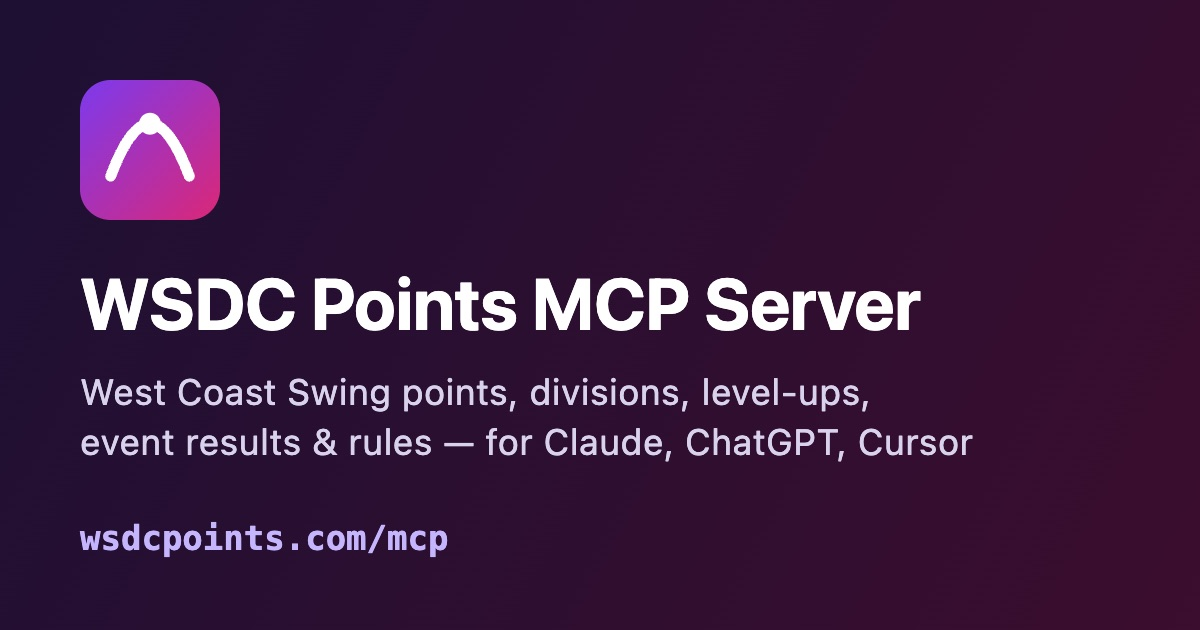
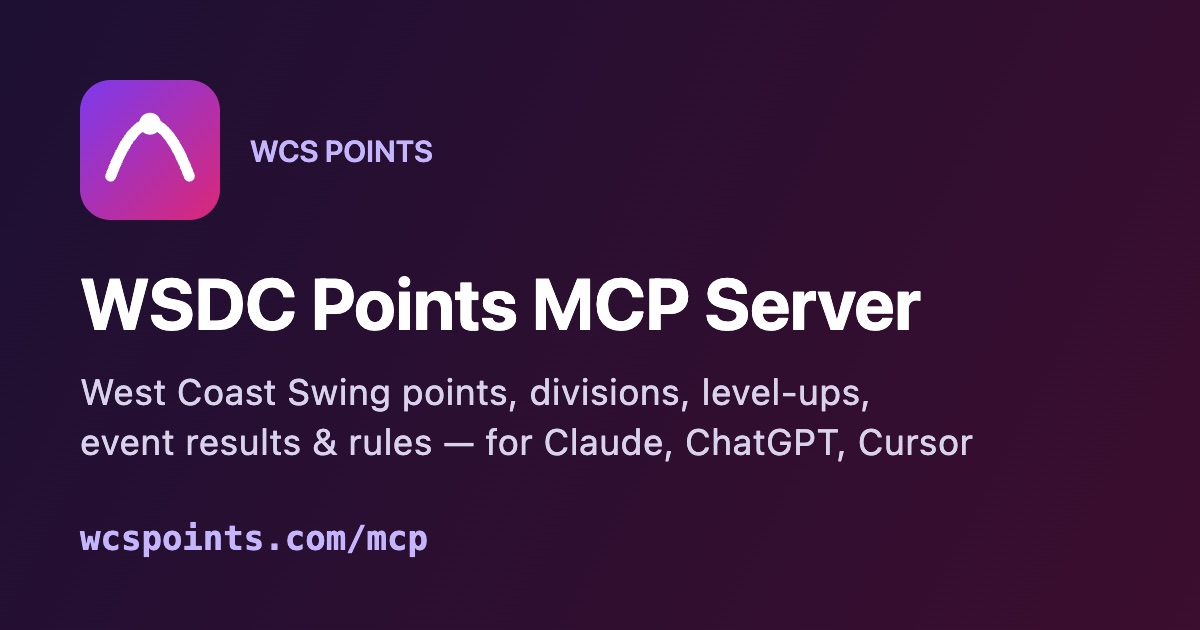
public MCP: move to wcspoints.com, brand "WCS Points", IndexNow key
- Domain wsdcpoints.com -> wcspoints.com everywhere (app default URL,
  server.json, registry name com.wcspoints/wsdc-points, nginx site,
  provision script, docs); OG image re-rendered with the new URL.
- Brand/site name "WCS Points"; page titles keep "WSDC Points" keywords.
- WSDC_MCP_INDEXNOW_KEY serves /<key>.txt for IndexNow (Bing, Yandex...).
- provision.sh: detect DNS against `hostname -I` (no external call) and
  issue/expand the cert for www only once www points here.

Changed region(s): [[0.0617, 0.8143, 0.37, 0.9048], [0.2158, 0.2111, 0.37, 0.2714]]

diff --git a/wsdc_mcp/web.py b/wsdc_mcp/web.py
@@ -168,6 +168,8 @@ class WebPages:
             ("/.well-known/ai-catalog.json", self.ai_catalog),
             ("/.well-known/mcp-registry-auth", self.registry_auth),
         ]
+        if self.config.indexnow_key:
+            routes.append((f"/{self.config.indexnow_key}.txt", self.indexnow_key))
         for path, handler in routes:
             mcp.custom_route(path, methods=["GET", "HEAD"], include_in_schema=False)(handler)
 
@@ -215,6 +217,9 @@ class WebPages:
         if not self.config.registry_auth:
             return PlainTextResponse("Not found", status_code=404)
         return PlainTextResponse(self.config.registry_auth)
+
+    async def indexnow_key(self, request: Request) -> Response:
+        return PlainTextResponse(self.config.indexnow_key or "")
 
     async def robots(self, request: Request) -> Response:
         body = f"User-agent: *\nAllow: /\n\nSitemap: {self.config.public_url}/sitemap.xml\n"
@@ -284,7 +289,7 @@ competition history). The authoritative copy lives at <a href="https://worldsdc.
 corrections should be requested from the WSDC, and are reflected here after the next sync.
 To ask about this mirror, contact {contact}<a href="{html.escape(c.repo_url)}/issues">open an issue on GitHub</a>.</p>
 """
-        return HTMLResponse(self._page("Privacy policy · WSDC Points MCP", "Privacy policy of the WSDC Points MCP server.", "/privacy", body))
+        return HTMLResponse(self._page("Privacy policy · WCS Points", "Privacy policy of the WSDC Points MCP server.", "/privacy", body))
 
     async def landing(self, request: Request) -> Response:
         c = self.config
@@ -303,7 +308,8 @@ To ask about this mirror, contact {contact}<a href="{html.escape(c.repo_url)}/is
         rules_note = f" (rulebook {html.escape(self.rules.version)})" if self.rules else ""
         body = f"""
 <header class="hero">
-  <img src="/icon.svg" width="56" height="56" alt="">
+  <img src="/icon.svg" width="56" height="56" alt="WCS Points logo">
+  <p class="brand">WCS Points</p>
   <h1>WSDC Points MCP Server</h1>
   <p class="lead">Ask Claude, ChatGPT, Cursor or any AI assistant about West Coast Swing dancers:
   WSDC points, divisions per role, level-ups, event results and the official rules{rules_note}.</p>
@@ -355,7 +361,7 @@ To ask about this mirror, contact {contact}<a href="{html.escape(c.repo_url)}/is
 """
         return HTMLResponse(
             self._page(
-                "WSDC Points MCP Server — West Coast Swing points & divisions for AI assistants",
+                "WSDC Points MCP Server — West Coast Swing points for AI assistants | WCS Points",
                 "Free MCP server for the WSDC Points Registry: look up any West Coast Swing dancer's "
                 "points, division per role, level-ups, event results and WSDC rules from Claude, ChatGPT or Cursor.",
                 "/",
@@ -372,7 +378,7 @@ To ask about this mirror, contact {contact}<a href="{html.escape(c.repo_url)}/is
                 "@context": "https://schema.org",
                 "@type": "SoftwareApplication",
                 "name": "WSDC Points MCP Server",
-                "alternateName": ["WSDC Points MCP", SERVER_NAME],
+                "alternateName": ["WCS Points", "WSDC Points MCP", SERVER_NAME],
                 "applicationCategory": "DeveloperApplication",
                 "applicationSubCategory": "Model Context Protocol server",
                 "operatingSystem": "Any",
@@ -420,7 +426,7 @@ To ask about this mirror, contact {contact}<a href="{html.escape(c.repo_url)}/is
 <meta property="og:title" content="{html.escape(title)}">
 <meta property="og:description" content="{html.escape(description)}">
 <meta property="og:url" content="{html.escape(canonical)}">
-<meta property="og:site_name" content="WSDC Points MCP">
+<meta property="og:site_name" content="WCS Points">
 <meta property="og:image" content="{html.escape(c.public_url)}/og.jpg">
 <meta property="og:image:width" content="1200">
 <meta property="og:image:height" content="630">
@@ -439,6 +445,7 @@ h1 {{ font-size: clamp(28px, 5vw, 40px); line-height:1.15; margin: 12px 0 8px; }
 h2 {{ font-size: 22px; margin: 44px 0 12px; }}
 h3 {{ font-size: 16px; margin: 0 0 8px; }}
 .hero {{ text-align:center; padding-top: 16px; }}
+.brand {{ margin: 8px 0 0; font-weight: 600; letter-spacing: .08em; text-transform: uppercase; font-size: 13px; color: var(--muted); }}
 .lead {{ font-size: 18px; color: var(--muted); max-width: 680px; margin: 0 auto 20px; }}
 .endpoint {{ display:inline-flex; gap:8px; align-items:center; max-width:100%; background:var(--card); border:1px solid var(--line); border-radius:12px; padding:8px 8px 8px 14px; }}
 .endpoint code {{ overflow-wrap:anywhere; font-size: 15px; }}

diff --git a/tests/test_unit.py b/tests/test_unit.py
@@ -176,7 +176,7 @@ def test_tools_are_titled_read_only_and_structured(config):
 
 
 def _http(app):
-    return httpx.AsyncClient(transport=httpx.ASGITransport(app=app), base_url="https://wsdcpoints.test")
+    return httpx.AsyncClient(transport=httpx.ASGITransport(app=app), base_url="https://wcspoints.test")
 
 
 def test_web_routes_and_discovery(config):
@@ -194,16 +194,28 @@ def test_web_routes_and_discovery(config):
     assert all(resp.status_code == 200 for resp in r.values()), {p: x.status_code for p, x in r.items()}
     landing = r["/"].text
     assert "<title>WSDC Points MCP Server" in landing
-    assert 'rel="canonical" href="https://wsdcpoints.test/"' in landing
+    assert 'rel="canonical" href="https://wcspoints.test/"' in landing
     assert '"@type": "FAQPage"' in landing and "search_wsdc_rules" in landing
-    assert "https://wsdcpoints.test/mcp" in r["/llms.txt"].text
+    assert "https://wcspoints.test/mcp" in r["/llms.txt"].text
     card = r["/mcp/server-card"].json()
     assert r["/mcp/server-card"].headers["content-type"].startswith("application/mcp-server-card+json")
-    assert card["remotes"][0] == {**card["remotes"][0], "type": "streamable-http", "url": "https://wsdcpoints.test/mcp"}
+    assert card["remotes"][0] == {**card["remotes"][0], "type": "streamable-http", "url": "https://wcspoints.test/mcp"}
     assert card["$schema"].endswith("/schemas/v1/server-card.schema.json")
     catalog = r["/.well-known/ai-catalog.json"].json()
-    assert catalog["entries"][0]["url"] == "https://wsdcpoints.test/mcp/server-card"
+    assert catalog["entries"][0]["url"] == "https://wcspoints.test/mcp/server-card"
     assert r["/.well-known/mcp-registry-auth"].text == "v=MCPv1; k=ed25519; p=abc"
+
+
+def test_indexnow_key_file():
+    app = create_app(make_config(indexnow_key="0123456789abcdef0123456789abcdef"))
+
+    async def run():
+        async with _http(app) as http:
+            return await http.get("/0123456789abcdef0123456789abcdef.txt"), await http.get("/nope.txt")
+
+    hit, miss = asyncio.run(run())
+    assert hit.status_code == 200 and hit.text == "0123456789abcdef0123456789abcdef"
+    assert miss.status_code == 404
 
 
 def test_registry_auth_absent_is_404(config):
@@ -258,4 +270,4 @@ def test_server_json_matches_code():
     assert manifest["name"] == SERVER_NAME
     assert manifest["description"] == SERVER_DESCRIPTION
     assert manifest["version"] == __version__
-    assert manifest["remotes"] == [{"type": "streamable-http", "url": "https://wsdcpoints.com/mcp"}]
+    assert manifest["remotes"] == [{"type": "streamable-http", "url": "https://wcspoints.com/mcp"}]

diff --git a/wsdc_mcp/config.py b/wsdc_mcp/config.py
@@ -30,6 +30,8 @@ class Config:
     statement_timeout_ms: int
     # Body for /.well-known/mcp-registry-auth (MCP Registry HTTP domain proof), if any.
     registry_auth: str | None
+    # IndexNow key (https://www.indexnow.org); served at /<key>.txt when set.
+    indexnow_key: str | None
     # Optional contact address shown on the landing/privacy pages; GitHub issues are always linked.
     contact_email: str | None
     repo_url: str
@@ -48,7 +50,7 @@ def load_config() -> Config:
     rules_path = _env("WSDC_MCP_RULES_PATH")
     return Config(
         db_dsn=_env("WSDC_MCP_DB_DSN") or _env("MCP_DB_DSN"),
-        public_url=(_env("WSDC_MCP_PUBLIC_URL", "https://wsdcpoints.com") or "").rstrip("/"),
+        public_url=(_env("WSDC_MCP_PUBLIC_URL", "https://wcspoints.com") or "").rstrip("/"),
         host=_env("WSDC_MCP_HOST", "127.0.0.1") or "127.0.0.1",
         port=int(_env("WSDC_MCP_PORT", "8001") or "8001"),
         rules_path=Path(rules_path) if rules_path else None,
@@ -56,6 +58,7 @@ def load_config() -> Config:
         pool_max_size=int(_env("WSDC_MCP_POOL_MAX", "3") or "3"),
         statement_timeout_ms=int(_env("WSDC_MCP_STATEMENT_TIMEOUT_MS", "8000") or "8000"),
         registry_auth=_env("WSDC_MCP_REGISTRY_AUTH"),
+        indexnow_key=_env("WSDC_MCP_INDEXNOW_KEY"),
         contact_email=_env("WSDC_MCP_CONTACT_EMAIL"),
         repo_url=(_env("WSDC_MCP_REPO_URL", "https://github.com/akarakotov/wsdc-mcp") or "").rstrip("/"),
         log_level=(_env("WSDC_MCP_LOG_LEVEL", "INFO") or "INFO").upper(),

diff --git a/tests/conftest.py b/tests/conftest.py
@@ -17,7 +17,7 @@ TEST_DSN = os.environ.get("WSDC_MCP_TEST_DSN")
 def make_config(**overrides) -> Config:
     base = dict(
         db_dsn=None,
-        public_url="https://wsdcpoints.test",
+        public_url="https://wcspoints.test",
         host="127.0.0.1",
         port=8001,
         rules_path=None,
@@ -25,6 +25,7 @@ def make_config(**overrides) -> Config:
         pool_max_size=2,
         statement_timeout_ms=5000,
         registry_auth=None,
+        indexnow_key=None,
         contact_email=None,
         repo_url="https://github.com/akarakotov/wsdc-mcp",
         log_level="INFO",

diff --git a/wsdc_mcp/server.py b/wsdc_mcp/server.py
@@ -35,8 +35,8 @@ logger = logging.getLogger("wsdc_mcp.tools")
 P = ParamSpec("P")
 T = TypeVar("T")
 
-SERVER_NAME = "com.wsdcpoints/wsdc-points"
-SERVER_TITLE = "WSDC Points"
+SERVER_NAME = "com.wcspoints/wsdc-points"
+SERVER_TITLE = "WCS Points"
 SERVER_DESCRIPTION = (
     "West Coast Swing WSDC points registry: dancer points, divisions, level-ups, event results and rules."
 )

diff --git a/README.md b/README.md
@@ -1,15 +1,15 @@
 # WSDC Points MCP Server
 
-<!-- mcp-name: com.wsdcpoints/wsdc-points -->
+<!-- mcp-name: com.wcspoints/wsdc-points -->
 
 **Ask Claude, ChatGPT, Cursor or any AI assistant about West Coast Swing dancers' WSDC points,
 divisions, level-ups and competition results.** A free, public, read-only
 [Model Context Protocol](https://modelcontextprotocol.io) (MCP) server for the
 World Swing Dance Council (WSDC) Points Registry: ~27,000 dancers and ~8,000 events.
 
-- **Endpoint:** `https://wsdcpoints.com/mcp` (Streamable HTTP, no API key, no sign-up)
-- **Website:** [wsdcpoints.com](https://wsdcpoints.com) · [llms.txt](https://wsdcpoints.com/llms.txt) · [server card](https://wsdcpoints.com/mcp/server-card)
-- **Official MCP Registry name:** `com.wsdcpoints/wsdc-points`
+- **Endpoint:** `https://wcspoints.com/mcp` (Streamable HTTP, no API key, no sign-up)
+- **Website:** [wcspoints.com](https://wcspoints.com) · [llms.txt](https://wcspoints.com/llms.txt) · [server card](https://wcspoints.com/mcp/server-card)
+- **Official MCP Registry name:** `com.wcspoints/wsdc-points`
 
 > Unofficial project, not affiliated with the World Swing Dance Council. The official registry is at
 > [worldsdc.com/registry](https://worldsdc.com/registry/).
@@ -27,11 +27,11 @@ World Swing Dance Council (WSDC) Points Registry: ~27,000 dancers and ~8,000 eve
 
 | Client | How |
 |---|---|
-| **Claude** (claude.ai, Desktop) | Settings → Connectors → *Add custom connector* → URL `https://wsdcpoints.com/mcp` |
-| **Claude Code** | `claude mcp add --transport http wsdc-points https://wsdcpoints.com/mcp` |
+| **Claude** (claude.ai, Desktop) | Settings → Connectors → *Add custom connector* → URL `https://wcspoints.com/mcp` |
+| **Claude Code** | `claude mcp add --transport http wsdc-points https://wcspoints.com/mcp` |
 | **ChatGPT** | Enable developer mode for apps/connectors, create a connector with the URL above, no authentication |
-| **Cursor / Windsurf** | `{"mcpServers": {"wsdc-points": {"url": "https://wsdcpoints.com/mcp"}}}` |
-| **VS Code (Copilot)** | `.vscode/mcp.json`: `{"servers": {"wsdc-points": {"type": "http", "url": "https://wsdcpoints.com/mcp"}}}` |
+| **Cursor / Windsurf** | `{"mcpServers": {"wsdc-points": {"url": "https://wcspoints.com/mcp"}}}` |
+| **VS Code (Copilot)** | `.vscode/mcp.json`: `{"servers": {"wsdc-points": {"type": "http", "url": "https://wcspoints.com/mcp"}}}` |
 | **Anything else** | Any MCP client with Streamable HTTP transport |
 
 ## Tools
@@ -73,7 +73,7 @@ WSDC_MCP_DB_DSN="dbname=wsdc host=127.0.0.1" venv/bin/python -m wsdc_mcp      # 
 | Variable | Meaning |
 |---|---|
 | `WSDC_MCP_DB_DSN` | PostgreSQL DSN of the WSDC registry database (read-only role) |
-| `WSDC_MCP_PUBLIC_URL` | Public origin used in links and discovery documents (default `https://wsdcpoints.com`) |
+| `WSDC_MCP_PUBLIC_URL` | Public origin used in links and discovery documents (default `https://wcspoints.com`) |
 | `WSDC_MCP_HOST` / `WSDC_MCP_PORT` | Bind address (default `127.0.0.1:8001`) |
 | `WSDC_MCP_RULES_PATH` | Plain-text WSDC rulebook; enables `search_wsdc_rules` |
 | `WSDC_MCP_POOL_MAX`, `WSDC_MCP_STATEMENT_TIMEOUT_MS` | DB pool size (3) and per-query timeout (8000 ms) |
@@ -84,7 +84,7 @@ The server expects the registry schema of the WSDC parser project (`contester_vi
 ## Privacy
 
 No accounts, cookies or trackers. Requests and tool calls are logged for up to 30 days for operations.
-Results contain only what the WSDC publishes in its public registry. See [wsdcpoints.com/privacy](https://wsdcpoints.com/privacy).
+Results contain only what the WSDC publishes in its public registry. See [wcspoints.com/privacy](https://wcspoints.com/privacy).
 
 ## License
 
